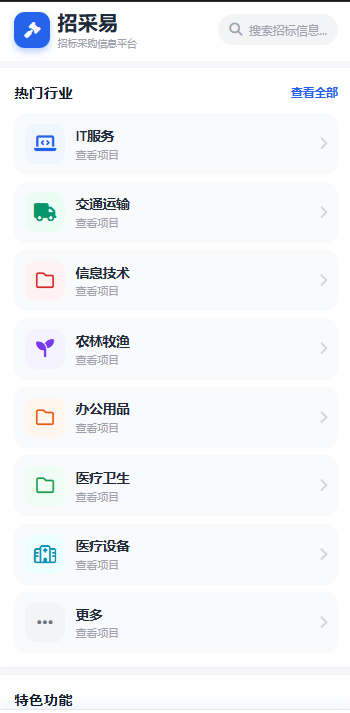
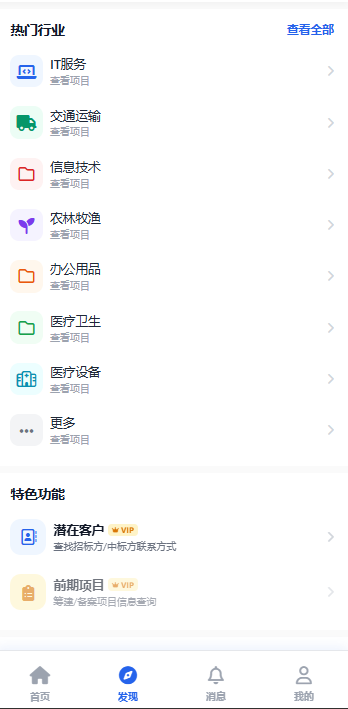
fix(discover): 热门行业改回宫格布局，节省垂直空间
- 热门行业从长条列表改为4列宫格布局
- 限制显示前8个行业，避免占用过多空间
- 优化图标尺寸（44px）和字体（11px）
- 保留"查看全部"入口，支持查看更多行业

diff --git a/client/screens/discover/index.tsx b/client/screens/discover/index.tsx
@@ -325,7 +325,7 @@ export default function DiscoverScreen() {
             />
           }
         >
-          {/* 热门行业 - 长条列表 */}
+          {/* 热门行业 - 宫格布局 */}
           <View style={styles.sectionContainer}>
             <View style={styles.sectionHeader}>
               <Text style={styles.sectionTitle}>热门行业</Text>
@@ -333,8 +333,8 @@ export default function DiscoverScreen() {
                 <Text style={styles.sectionMore}>查看全部</Text>
               </TouchableOpacity>
             </View>
-            <View style={styles.categoryList}>
-              {categories.map((category) => (
+            <View style={styles.categoryGrid}>
+              {categories.slice(0, 8).map((category) => (
                 <TouchableOpacity
                   key={category.id}
                   style={styles.categoryItem}
@@ -344,13 +344,7 @@ export default function DiscoverScreen() {
                   <View style={[styles.categoryIconWrapper, { backgroundColor: category.bgColor }]}>
                     <FontAwesome6 name={category.icon} size={18} color={category.color} />
                   </View>
-                  <View style={styles.categoryContent}>
-                    <Text style={styles.categoryName}>{category.name}</Text>
-                    <Text style={styles.categoryDesc}>
-                      {category.count > 0 ? `${category.count}个招标项目` : '查看项目'}
-                    </Text>
-                  </View>
-                  <FontAwesome6 name="chevron-right" size={12} color="#D1D5DB" style={styles.categoryArrow} />
+                  <Text style={styles.categoryName} numberOfLines={1}>{category.name}</Text>
                 </TouchableOpacity>
               ))}
             </View>

diff --git a/client/screens/discover/styles.ts b/client/screens/discover/styles.ts
@@ -92,38 +92,31 @@ export const createStyles = (theme: Theme) => {
       color: '#2563EB',
       fontWeight: '600',
     },
-    // ========== 分类长条列表 - 紧凑版 ==========
-    categoryList: {
-      gap: 1,
+    // ========== 分类宫格 - 紧凑版 ==========
+    categoryGrid: {
+      flexDirection: 'row',
+      flexWrap: 'wrap',
+      gap: Spacing.sm,
+      marginTop: Spacing.xs,
     },
     categoryItem: {
-      flexDirection: 'row',
+      width: '23%',
       alignItems: 'center',
-      paddingVertical: Spacing.sm + 2,
+      marginBottom: Spacing.xs,
     },
     categoryIconWrapper: {
-      width: 36,
-      height: 36,
-      borderRadius: 10,
+      width: 44,
+      height: 44,
+      borderRadius: 14,
       justifyContent: 'center',
       alignItems: 'center',
-      marginRight: Spacing.sm,
-    },
-    categoryContent: {
-      flex: 1,
+      marginBottom: Spacing.xs,
     },
     categoryName: {
-      fontSize: 14,
-      color: '#1F2937',
-      fontWeight: '500',
-    },
-    categoryDesc: {
       fontSize: 11,
-      color: '#9CA3AF',
-      marginTop: 1,
-    },
-    categoryArrow: {
-      marginLeft: Spacing.xs,
+      color: '#374151',
+      fontWeight: '500',
+      textAlign: 'center',
     },
     // ========== 特色功能区 - 长条卡片紧凑版 ==========
     featureGrid: {
